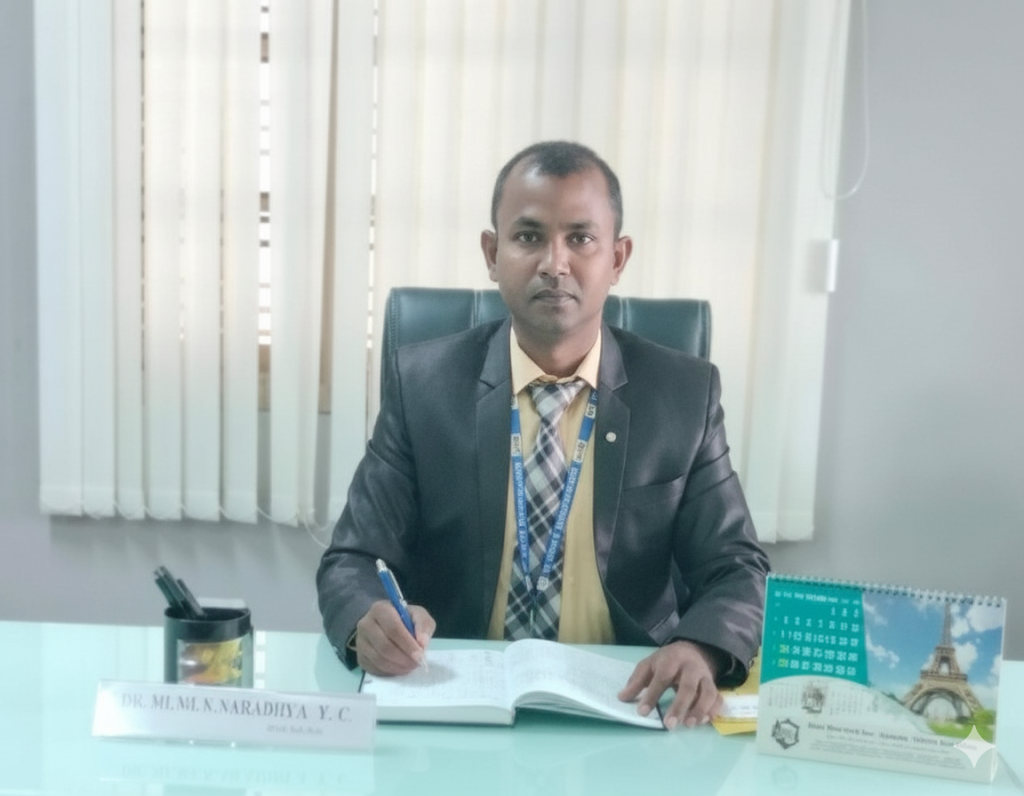
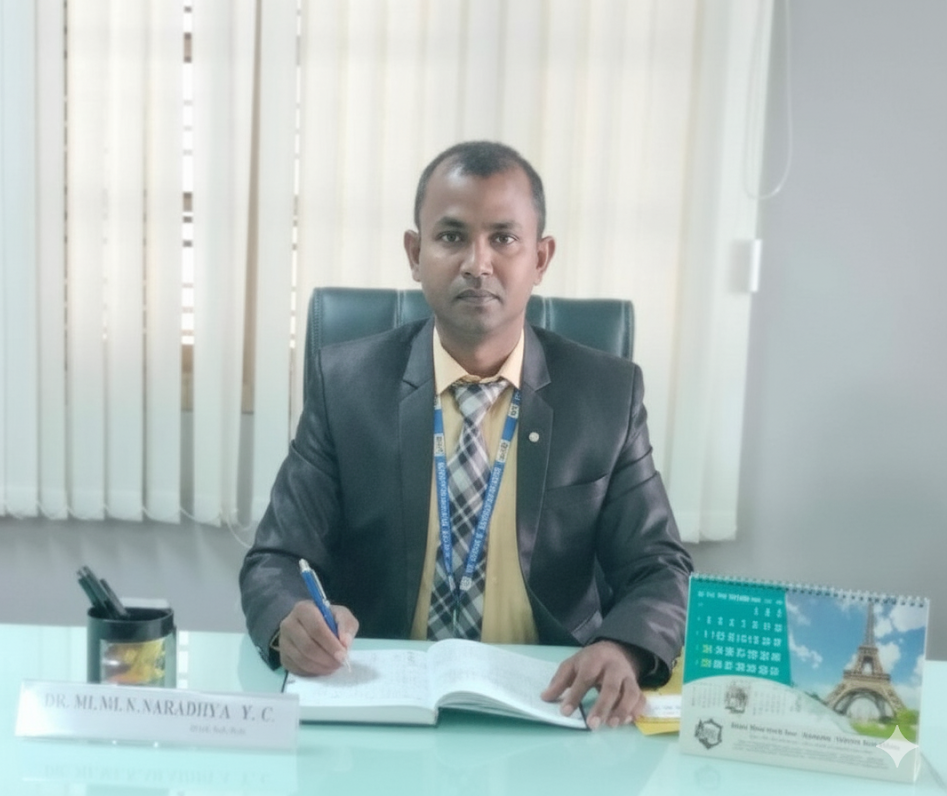
updated

diff --git a/hackathon/src/components/Organizers/Organizers.jsx b/hackathon/src/components/Organizers/Organizers.jsx
@@ -2,7 +2,7 @@ import React from 'react';
 import { motion } from 'framer-motion';
 import './Organizers.css';
 import organizer1 from '../../assets/csehod.png';
-import organizer2 from '../../assets/empty.png';
+import organizer2 from '../../assets/isehod.jpg';
 
 const organizersData = [
   { name: 'Dr Renukaradhya P C ', role: 'Professor & HOD - CSE', img: organizer1 },

diff --git a/hackathon/index.html b/hackathon/index.html
@@ -2,7 +2,7 @@
 <html lang="en">
   <head>
     <meta charset="UTF-8" />
-    <link rel="icon" type="image/svg+xml" href="/vite.svg" />
+    <link rel="icon" type="image/svg+xml" href="./src/assets/smce-logo.png" />
     <meta name="viewport" content="width=device-width, initial-scale=1.0" />
     <title>Innovatiaa</title>
   </head>
